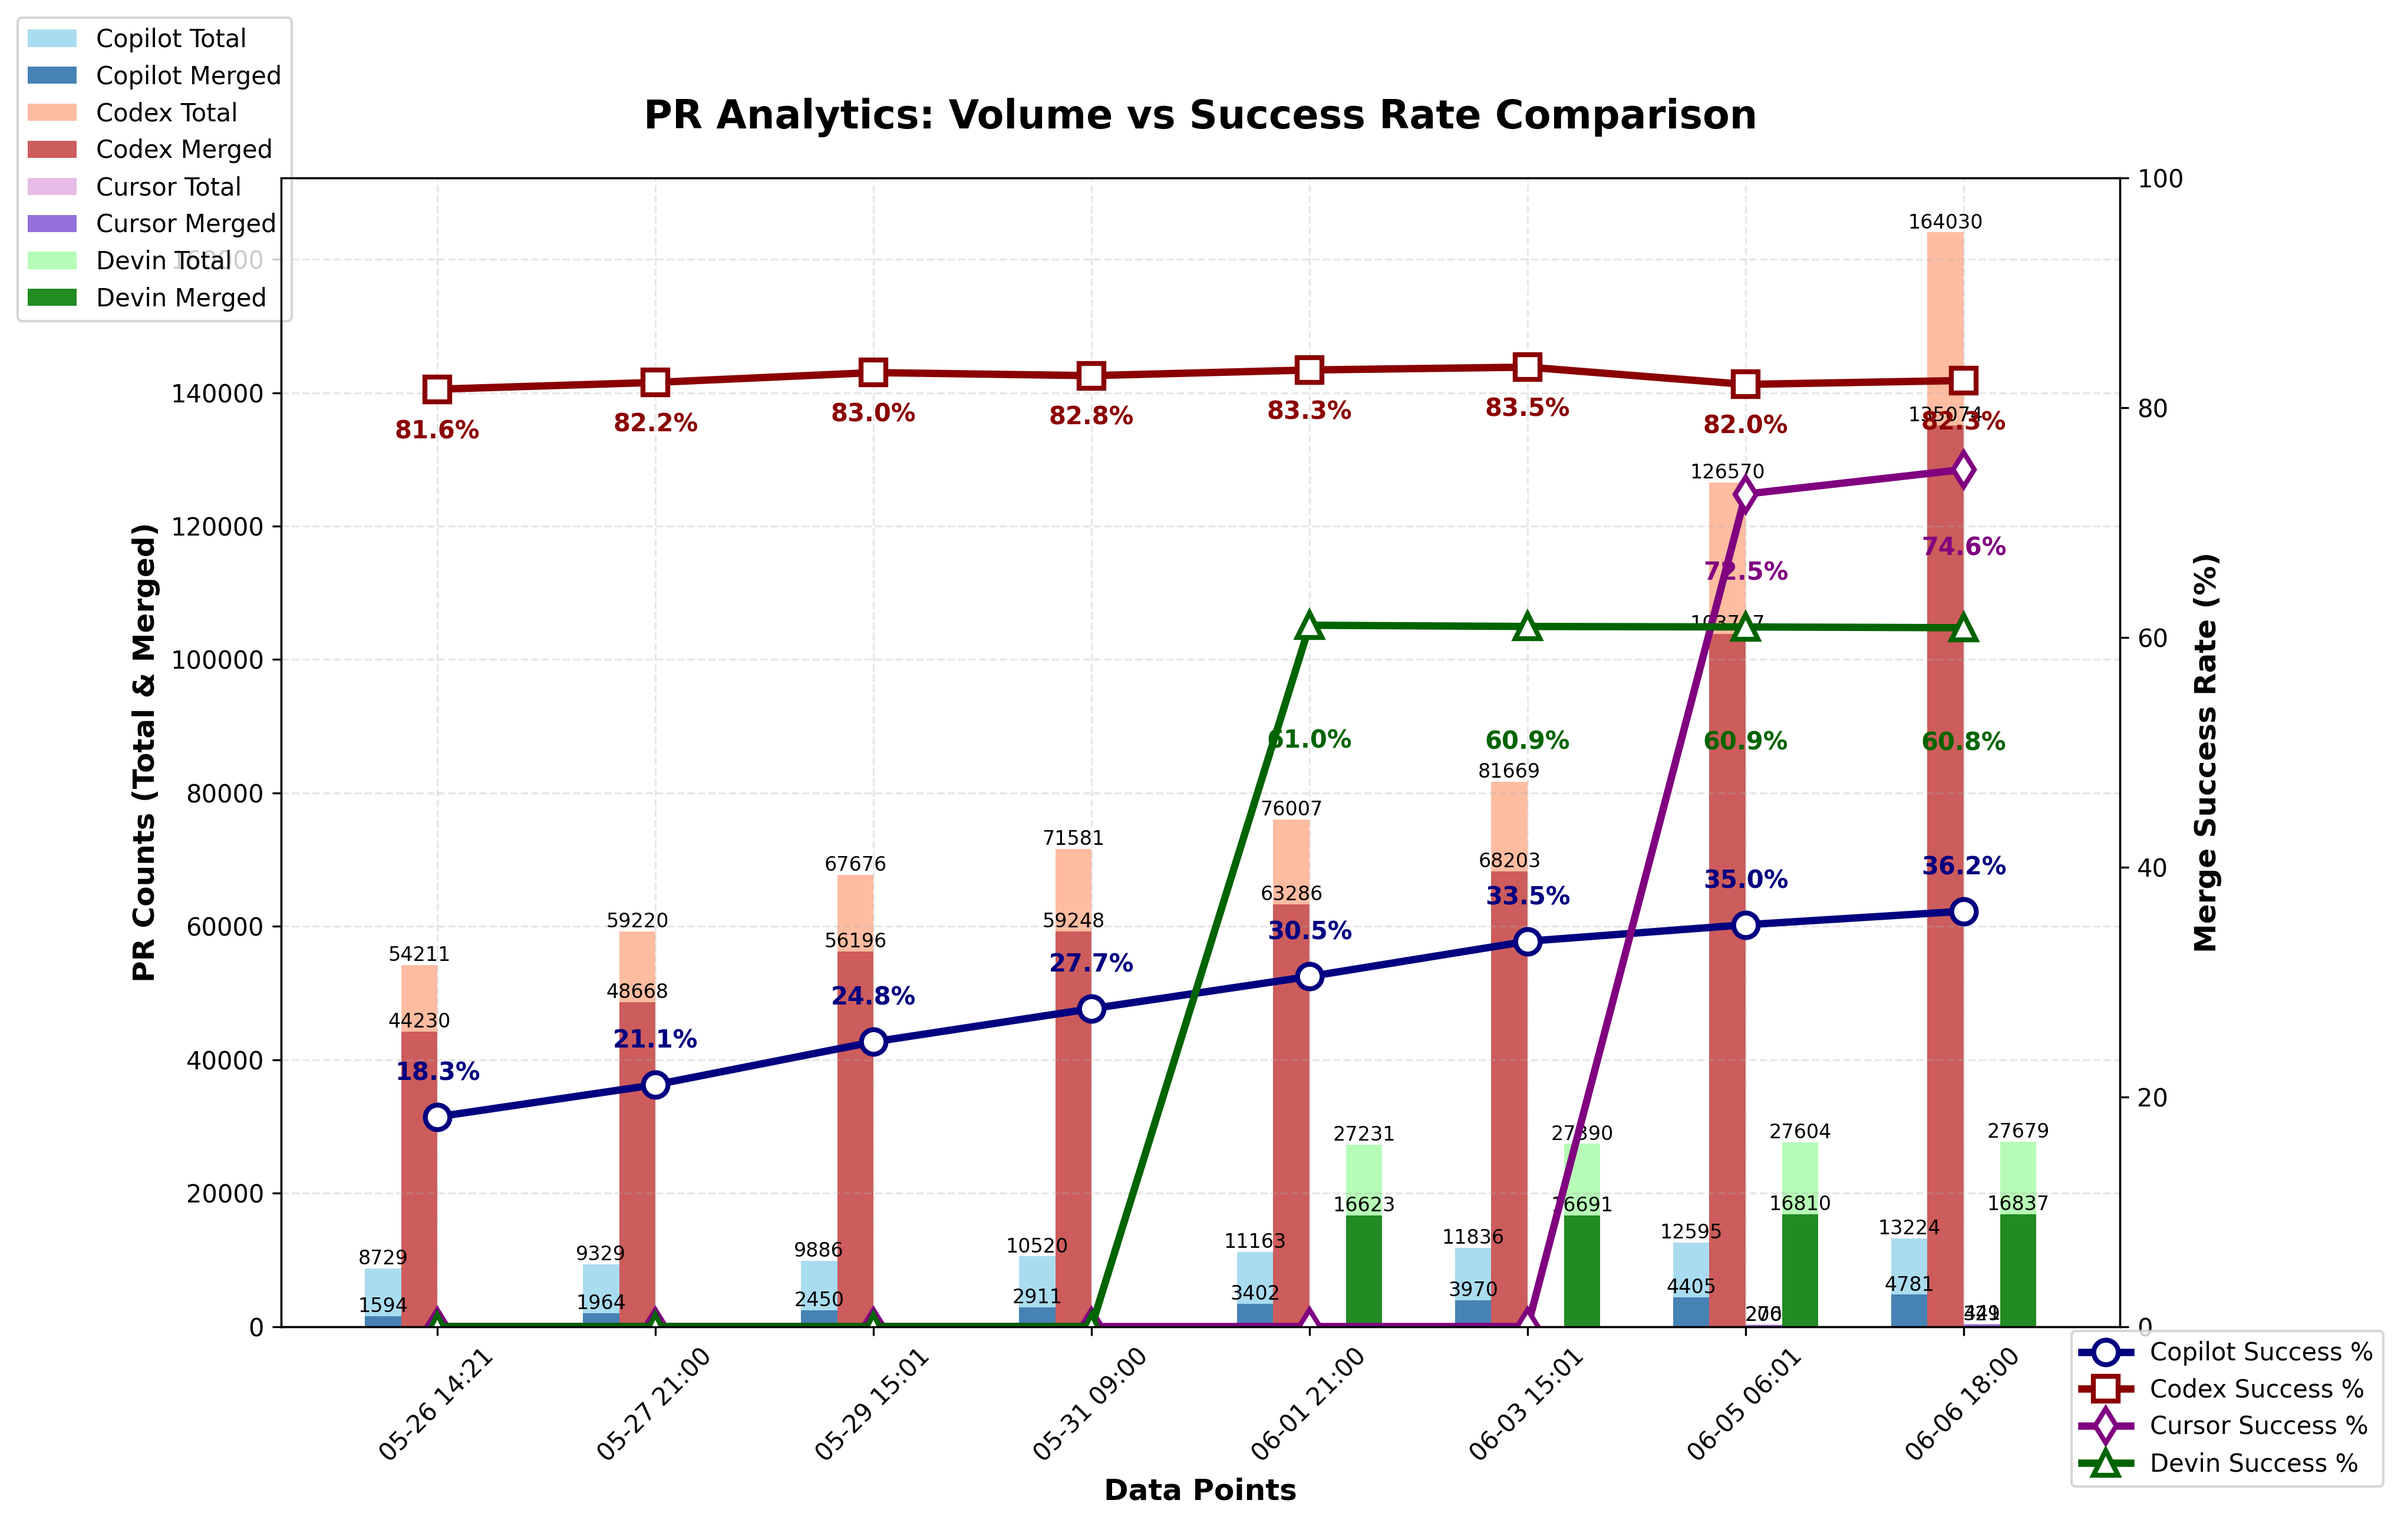
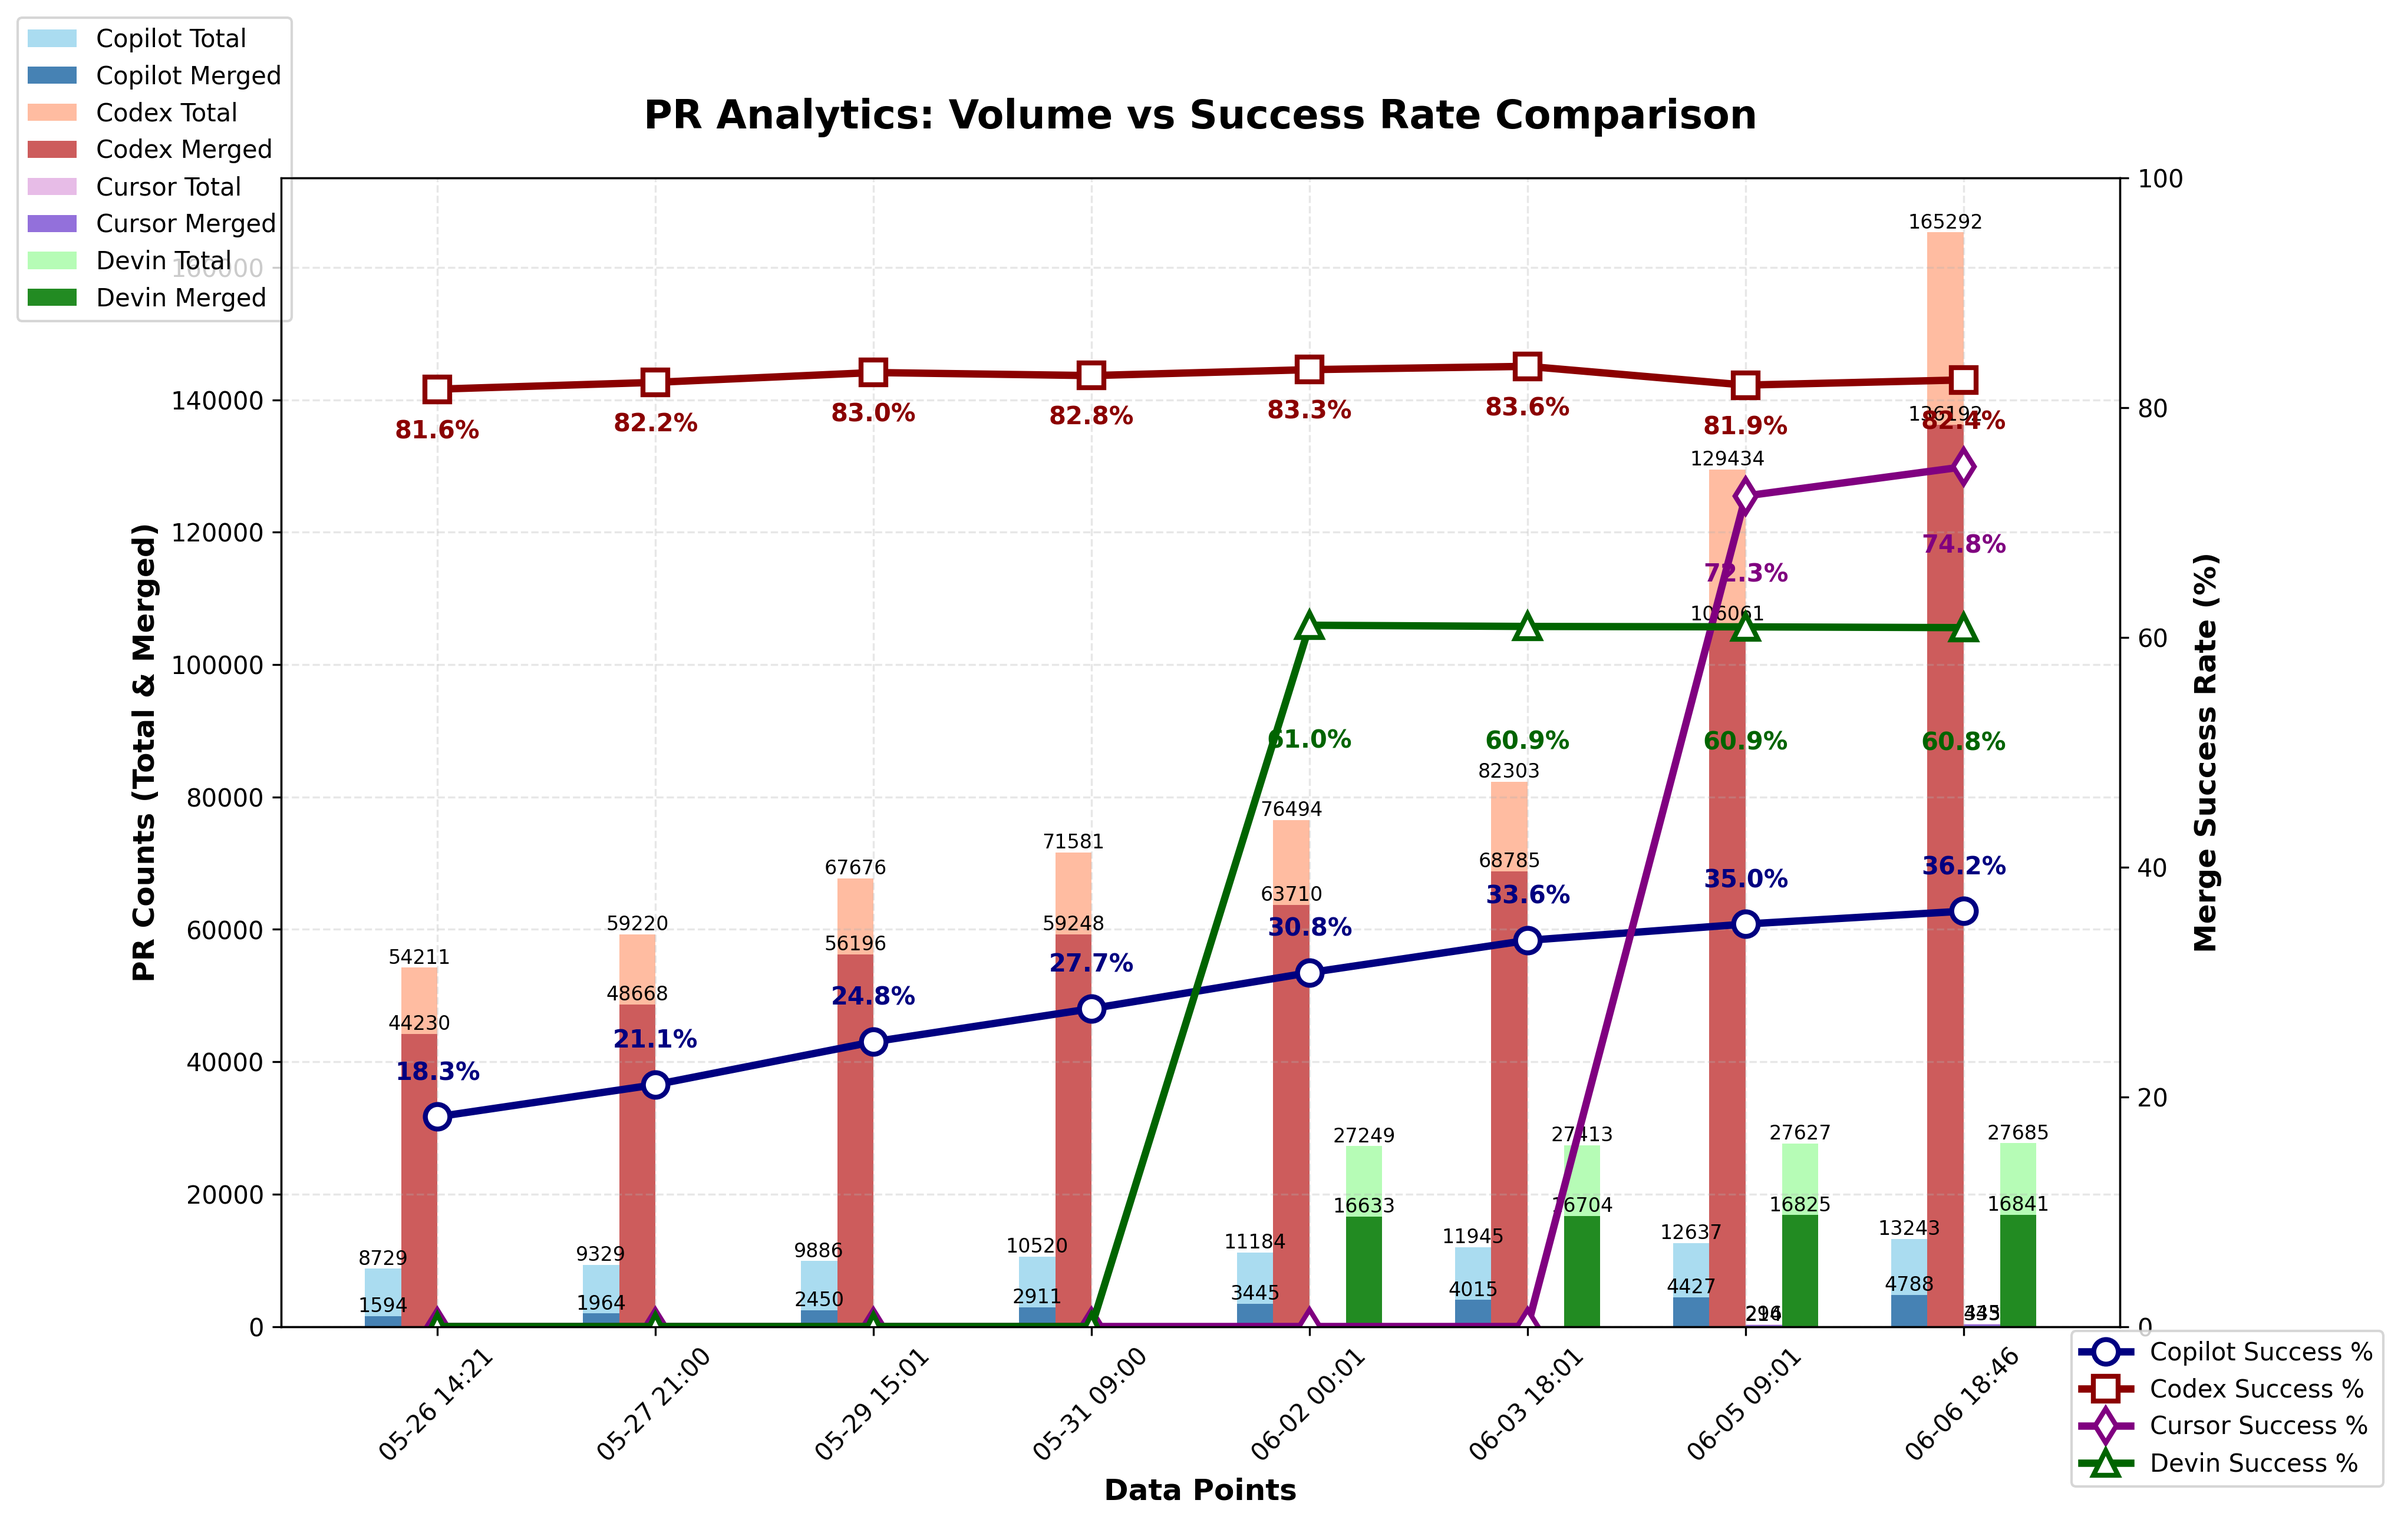
chore: update PR‑approval chart

diff --git a/docs/index.html b/docs/index.html
@@ -271,7 +271,7 @@
 
       <footer>
         <p>
-          Last updated: <span id="last-updated">June 06, 2025 18:01 UTC</span>
+          Last updated: <span id="last-updated">June 06, 2025 18:46 UTC</span>
         </p>
         <p>
           <a href="https://github.com/aavetis/ai-pr-watcher">View on GitHub</a>

diff --git a/README.md b/README.md
@@ -23,7 +23,7 @@ Explore the GitHub search queries used:
 
 | Project | Total PRs | Merged PRs | Merge Rate |
 | ------- | --------- | ---------- | ---------- |
-| Copilot | 13,224 | 4,781 | 36.15% |
-| Codex   | 164,030 | 135,074 | 82.35% |
-| Cursor  | 441 | 329 | 74.60% |
-| Devin   | 27,679 | 16,837 | 60.83% |
+| Copilot | 13,243 | 4,788 | 36.15% |
+| Codex   | 165,292 | 136,192 | 82.39% |
+| Cursor  | 445 | 333 | 74.83% |
+| Devin   | 27,685 | 16,841 | 60.83% |
